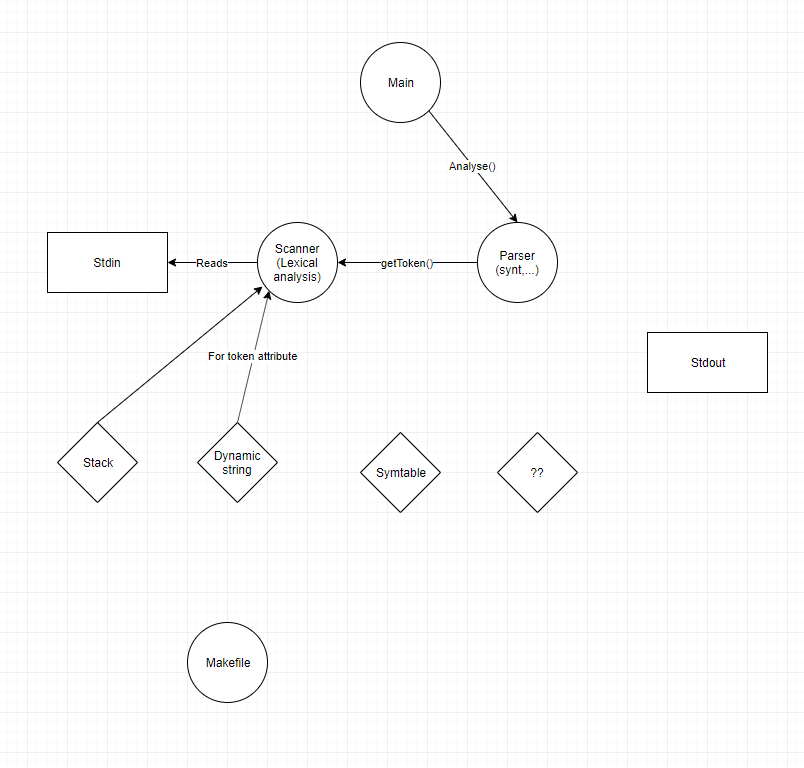
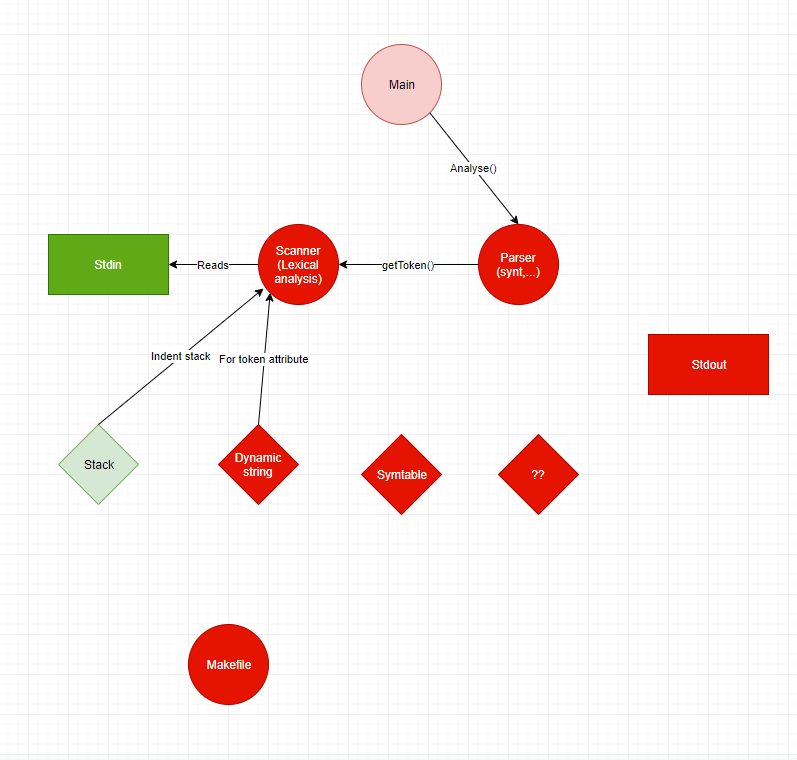
Added stack, updated map

diff --git a/stack.c b/stack.c
@@ -1,0 +1,102 @@
+/**
+ *      Project: IFJ – Implementace překladače imperativního jazyka IFJ19
+ *      Team 65, variant 1
+ *
+ *      Authors:
+ *          Diviš Jan	    xdivis12
+ *          Kopáček Jiří	xkopac06
+ *          Pojsl Jakub	    xpojsl00
+ *          Sasín Jonáš	    xsasin05
+ *
+ *      File: stack.c
+ */
+
+#include <stdio.h>
+#include <stdlib.h>
+#include "stack.h"
+
+int stackInit (tStack* s) {
+    // The stack is empty when initialized, so the value of top is -1
+    if (s == NULL)
+    {
+        return 99;
+    } else
+    {
+        s->top = -1;
+        return 0;
+    }
+}
+
+int stackEmpty (tStack* s) {
+    // When the stack is empty, top should have the value -1
+    if (s == NULL)
+    {
+        return 99;
+    }
+    return s->top == -1;
+}
+
+int stackFull (tStack* s) {
+    // When the stack is full, top should be equal to the stack size - 1
+    if (s == NULL)
+    {
+        return 99;
+    }
+    return s->top == (MAX_STACK_SIZE - 1);
+}
+
+int stackTop (tStack* s, int *x) {
+    // Returns the int on the s.top index
+    if (s == NULL)
+    {
+        return 99;
+    }
+    if (stackEmpty(s))
+    {
+        return 1;
+    } else
+    {
+        *x = s->arr[s->top];
+        return 0;
+    }
+}
+
+
+int stackPop (tStack* s) {
+    // Decrements the value of top making the previous character the new top
+    if (s == NULL)
+    {
+        return 99;
+    }
+    if (stackEmpty(s))
+    {
+        return 1;
+    } else
+    {
+        s->top--;
+        return 0;
+    }
+}
+
+
+int stackPush (tStack* s, int x) {
+    // Increments the value of top and places the new char on the new top index
+    if (s == NULL)
+    {
+        return 99;
+    }
+    if (stackFull(s))
+    {
+        return 1;
+    } else
+    {
+        s->top++;
+        s->arr[s->top] = x;
+        return 0;
+    }
+}
+
+/* Konec c202.c */
+
+
+

diff --git a/stack.h b/stack.h
@@ -1,0 +1,50 @@
+/**
+ *      Project: IFJ – Implementace překladače imperativního jazyka IFJ19
+ *      Team 65, variant 1
+ *
+ *      Authors:
+ *          Diviš Jan	    xdivis12
+ *          Kopáček Jiří	xkopac06
+ *          Pojsl Jakub	    xpojsl00
+ *          Sasín Jonáš	    xsasin05
+ *
+ *      File: stack.h
+ */
+
+
+#ifndef STACK_H_INCLUDED
+#define STACK_H_INCLUDED
+
+#include <stdio.h>
+#include <stdlib.h>
+
+#define MAX_STACK_SIZE 30
+
+typedef struct {
+	int arr[MAX_STACK_SIZE];
+	int top;
+} tStack;
+
+// Initializes the stack, returns 0 if successful, otherwise returns error code
+int stackInit (tStack* s);
+
+// Returns 0 if empty, 99 if null pointer, otherwise not empty
+int stackEmpty (tStack* s);
+
+// Returns 0 if full, 99 if null pointer, otherwise not full
+int stackFull (tStack* s);
+
+// Stores the top of the stack to the passed reference
+// Returns 99 if null pointer, 0 if successful, 1 if stack was empty
+int stackTop (tStack* s, int* x);
+
+// Pops the top of the stack
+// Returns 99 if null pointer, 0 if successful, 1 if stack was empty
+int stackPop (tStack* s);
+
+// Pushes x to the top of the stack
+// Returns 99 if null pointer, 0 if successful, 1 if stack was full
+int stackPush (tStack* s, int x);
+
+
+#endif // STACK_H_INCLUDED

diff --git a/scanner.c b/scanner.c
@@ -14,6 +14,7 @@
 #include <stdio.h>
 #include <stdlib.h>
 #include "scanner.h"
+#include "stack.h"
 
 int getToken(Token *token)
 {
